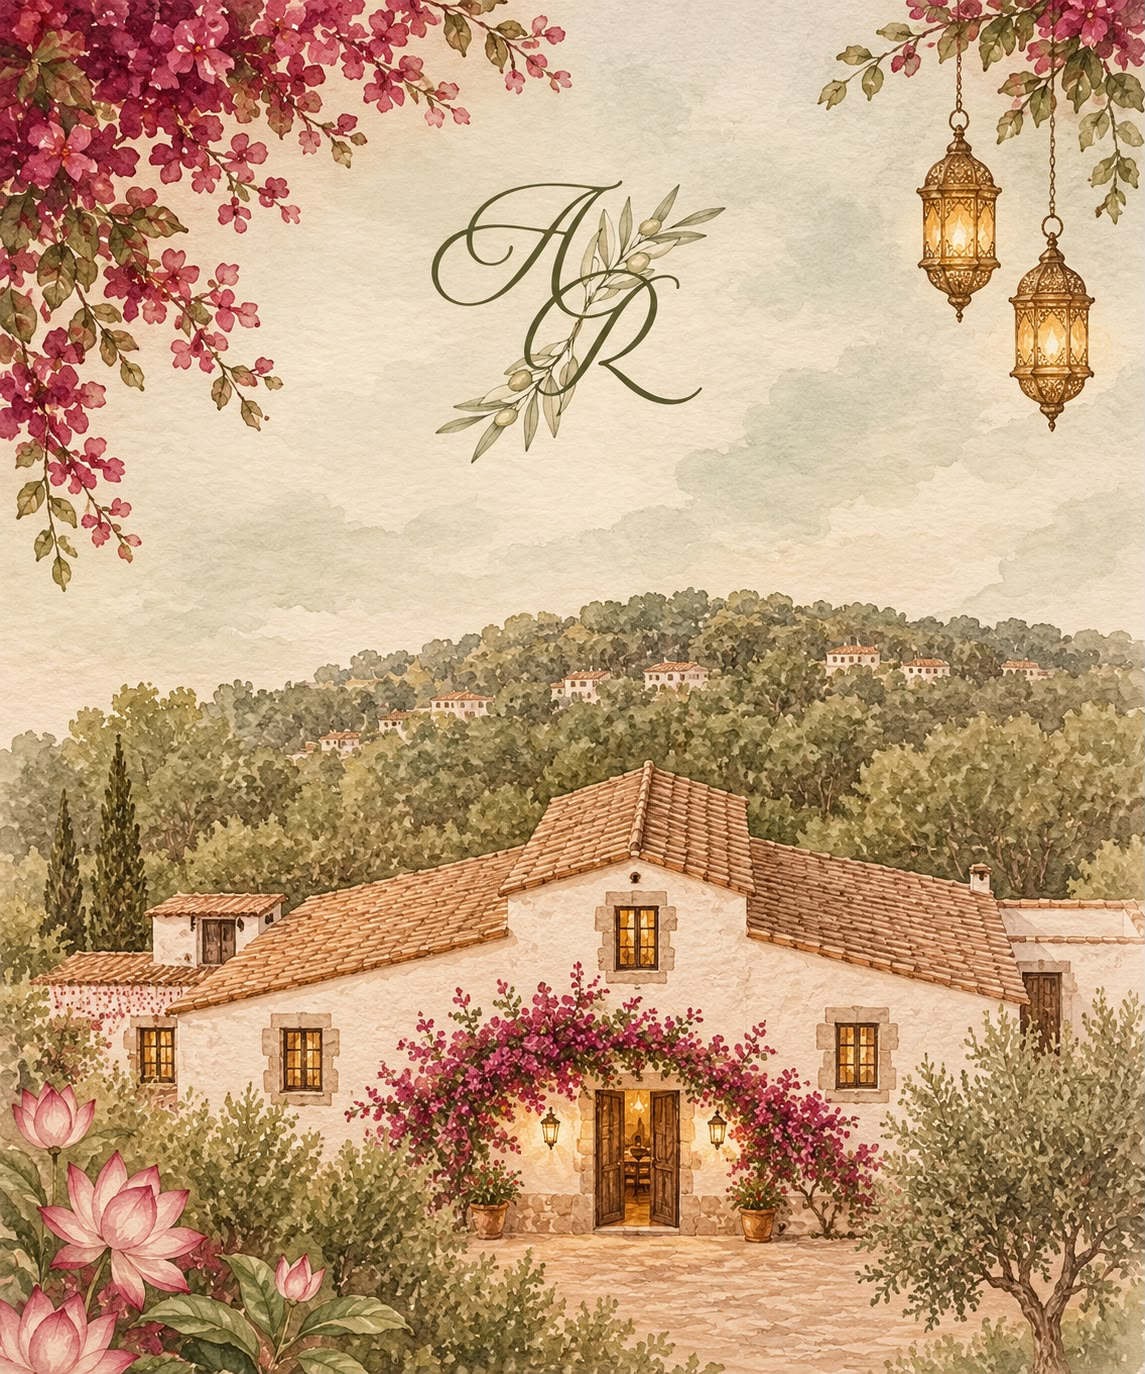
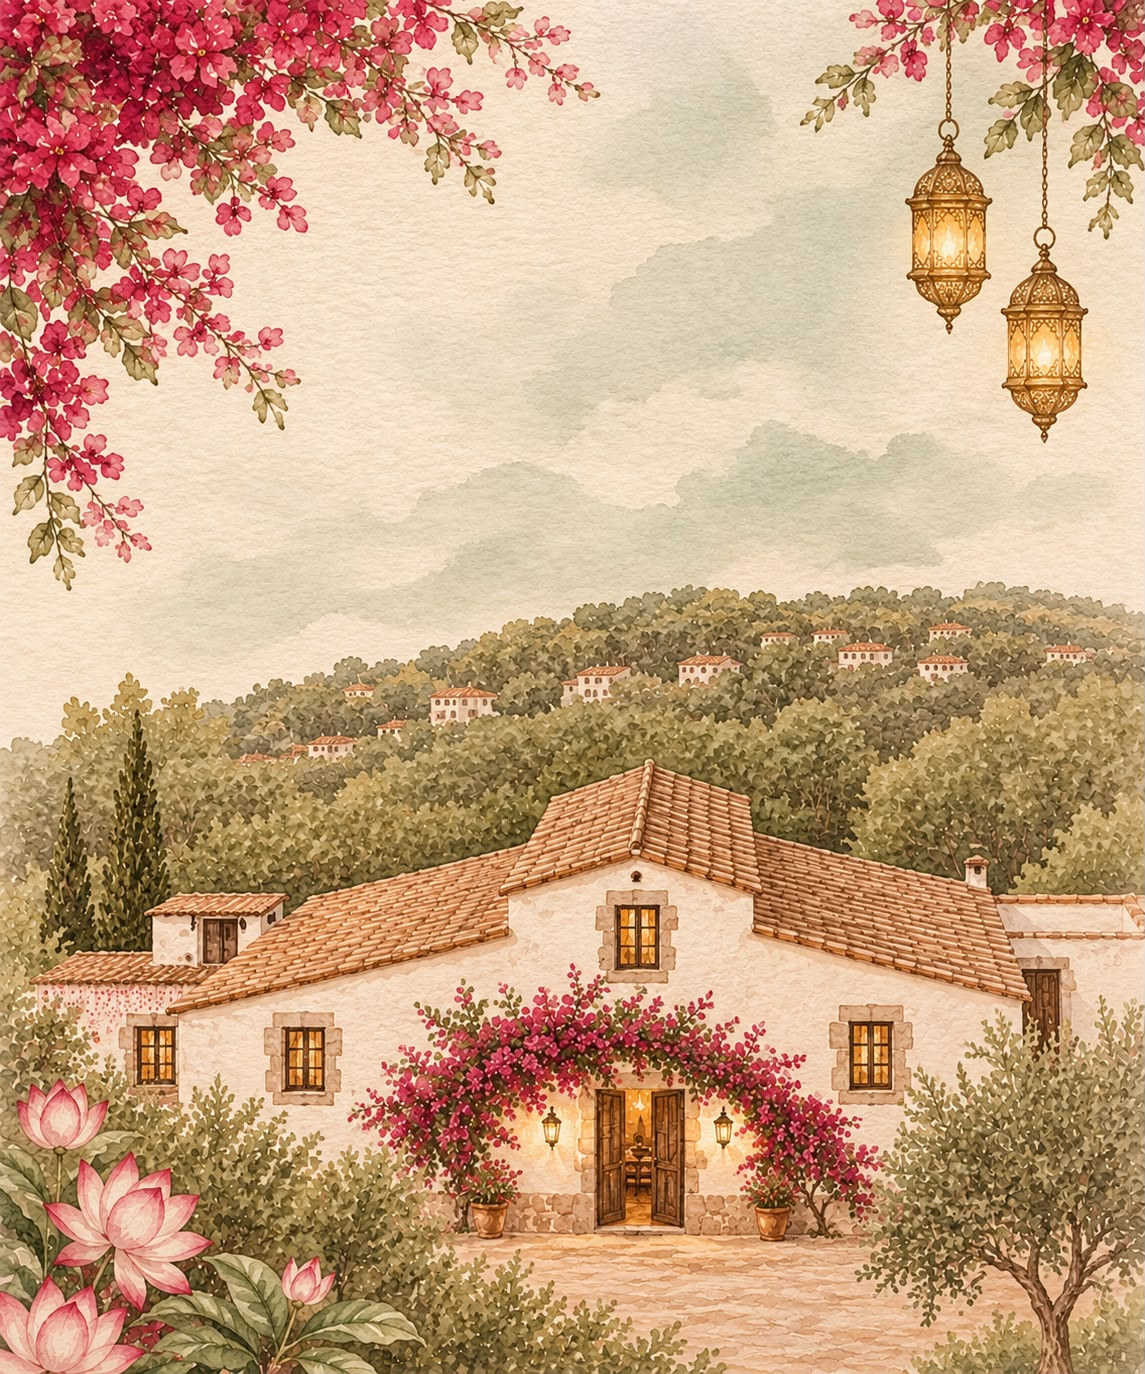
style fixes

diff --git a/index.html b/index.html
@@ -146,21 +146,24 @@
 
       <!-- ============ UBICACION ============ -->
       <section class="section" id="sec-3">
-        <svg
-          class="surah-mark reveal d1"
-          viewBox="0 0 60 70"
-          fill="none"
-          xmlns="http://www.w3.org/2000/svg"
-        >
-          <path
-            d="M30 4 C44 4 54 15 54 29 C54 46 30 66 30 66 C30 66 6 46 6 29 C6 15 16 4 30 4 Z"
-            stroke="#B08D57"
-            stroke-width="1"
-          />
-          <circle cx="30" cy="28" r="7" stroke="#B08D57" stroke-width="1" />
-        </svg>
-        <p class="section-eyebrow reveal d2">La celebración</p>
+        <img class="logo" src="logo.png" />
+
         <div class="contrast-box">
+          <svg
+            class="surah-mark reveal d1"
+            viewBox="0 0 60 70"
+            fill="none"
+            xmlns="http://www.w3.org/2000/svg"
+          >
+            <path
+              d="M30 4 C44 4 54 15 54 29 C54 46 30 66 30 66 C30 66 6 46 6 29 C6 15 16 4 30 4 Z"
+              stroke="#2e2a1e"
+              stroke-width="1"
+            />
+            <circle cx="30" cy="28" r="7" stroke="#2e2a1e" stroke-width="1" />
+          </svg>
+          <p class="section-eyebrow reveal d2">La celebración</p>
+
           <h2 class="venue-name reveal d2">Masia Lahore Heritage</h2>
           <p class="venue-address reveal d3">
             Cami vell d'Ullastrell, s/n, 08191 Rubí, Barcelona

diff --git a/styles.css b/styles.css
@@ -37,7 +37,7 @@ body {
   inset: 0;
   z-index: 999;
   background: var(--ivory);
-  display: none;
+  display: flex;
   flex-direction: column;
   align-items: center;
   justify-content: center;
@@ -283,7 +283,8 @@ body {
 }
 .eyebrow {
   font-family: "Jost", sans-serif;
-  font-size: 0.72rem;
+  font-size: 1rem;
+  font-weight: bold;
   letter-spacing: 0.42em;
   padding-left: 0.42em;
   text-transform: uppercase;
@@ -345,6 +346,10 @@ body {
 #sec-1 {
   background: var(--ivory);
 }
+.logo {
+  width: 240px;
+  margin-bottom: 1.6rem;
+}
 .surah-mark {
   width: 52px;
   margin-bottom: 1.6rem;
@@ -382,9 +387,10 @@ body {
 .section-eyebrow {
   font-family: "Jost", sans-serif;
   font-size: 0.72rem;
+  font-weight: bold;
   letter-spacing: 0.36em;
   text-transform: uppercase;
-  color: var(--gold-dark);
+  color: var(--ink);
   margin-bottom: 2.2rem;
 }
 .countdown {
@@ -432,9 +438,9 @@ body {
     var(--olive-deep);
 }
 .contrast-box {
-  background: rgba(248, 243, 231, 0.25);
+  background: rgba(248, 243, 231, 0.5);
   backdrop-filter: blur(4px);
-  padding: 0.6rem 1rem;
+  padding: 1.5rem 1.5rem;
   border-radius: 6px;
   box-shadow: 0 2px 8px rgba(0, 0, 0, 0.15);
 }
